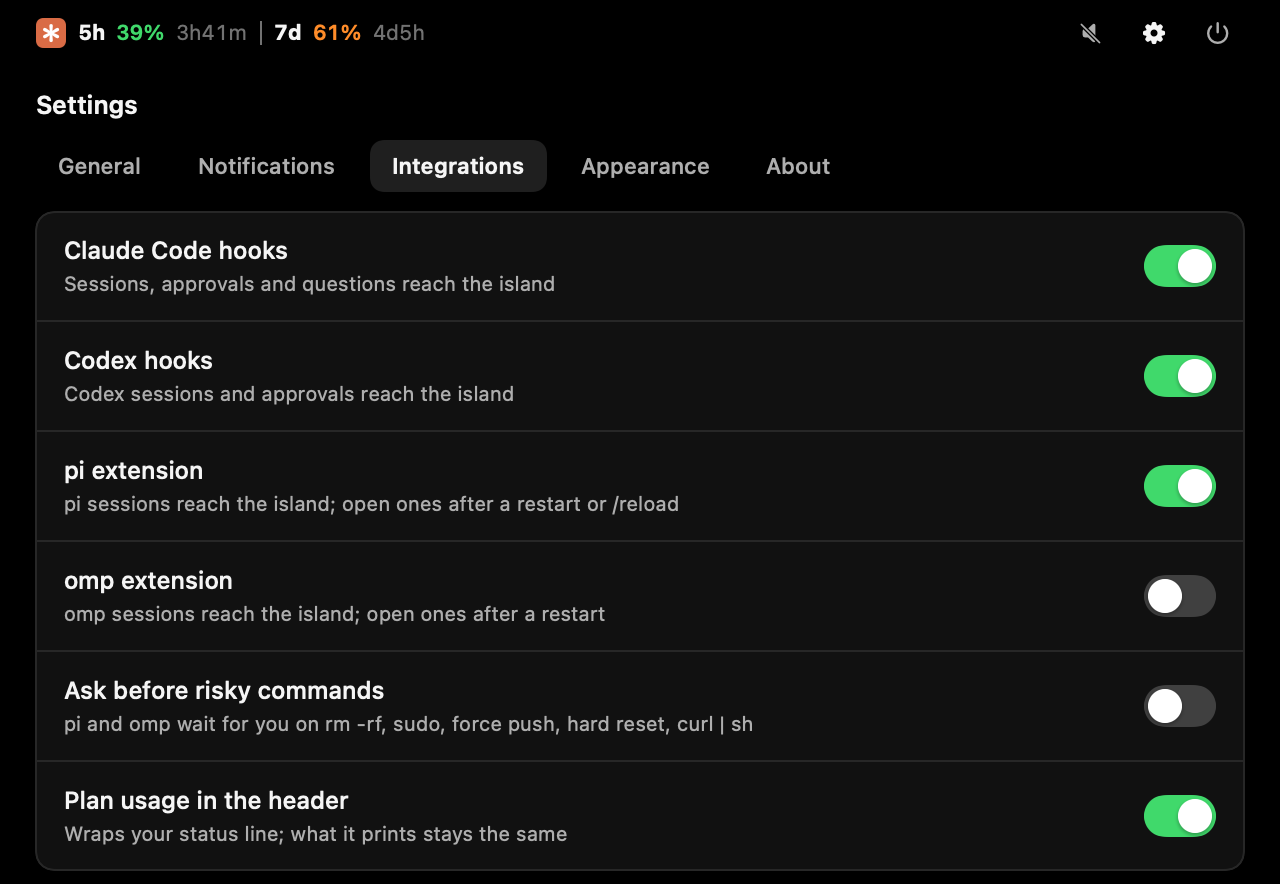
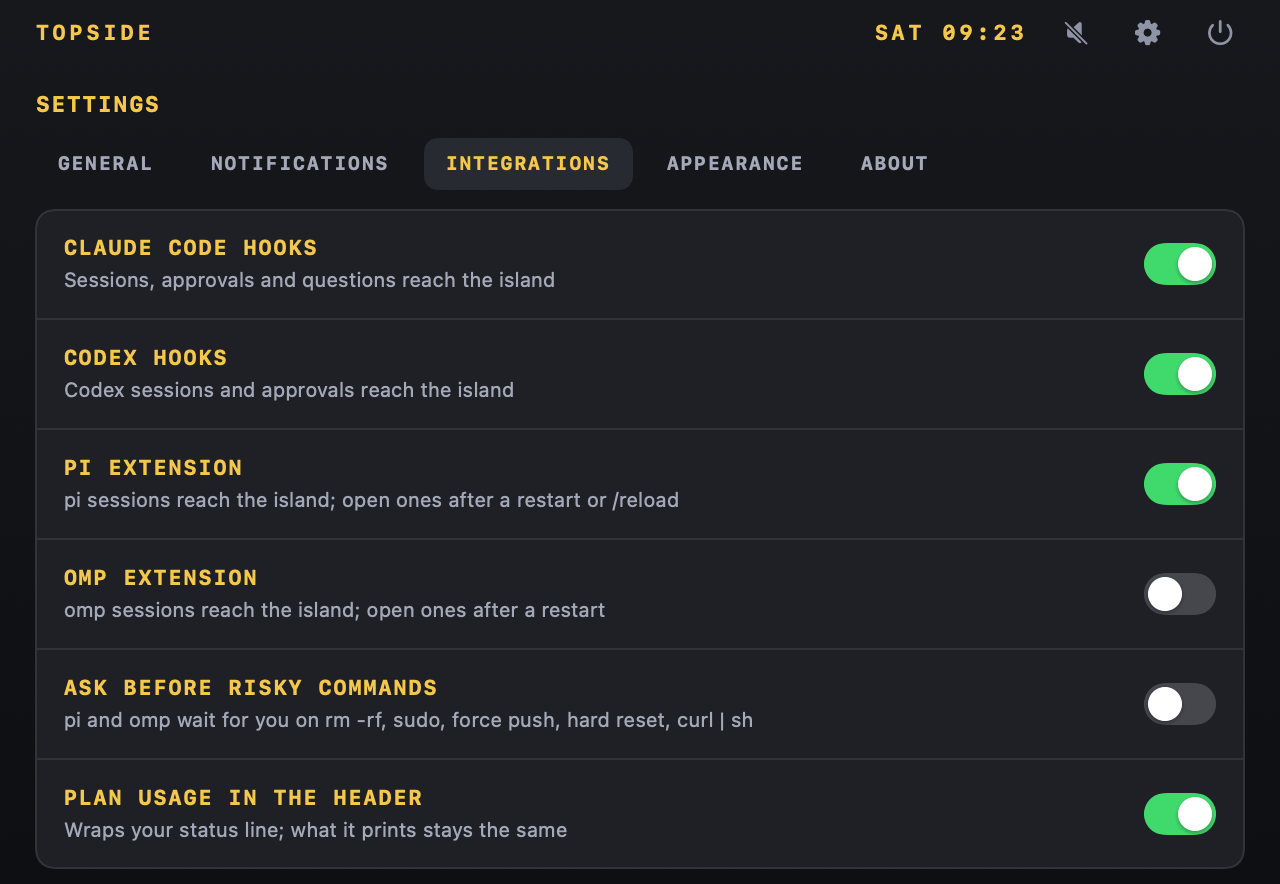
Show the board as Topside's face for 0.3.0
The first look (cards, dots) is retired in 0.3.0, so the letter's middle
now shows the board's pill, its departures and a request landing on it;
Kitchen keeps its own section. The docs' island section describes each
style's pill, list and requests, and the three Settings pictures are
re-rendered on the board's face. Theme and light mode are gone from
Appearance. Version bumped to 0.3.0.

Claude-Session: https://claude.ai/code/session_01AeEtMawiK6Vvbuy3Spha91

diff --git a/docs/index.html b/docs/index.html
@@ -218,12 +218,12 @@ footer { font-family: var(--mono); font-size: 12px; color: var(--muted); border-
 
         <h3>Codex CLI</h3>
         <p>Codex runs a hook only after you trust it. Open Codex, run <code>/hooks</code> and approve Topside's. Topside doesn't write that trust for you, and shouldn't be able to. Until you do, Codex rows say "Not tracked: run /hooks in Codex". You'll be asked again if the app moves to another folder, because the hook's command changes with it.</p>
-        <p>Codex takes allow or deny from a hook and nothing else, so its cards have those two buttons. <code>codex exec</code> and <code>codex review</code> don't show. If <code>CODEX_HOME</code> is set, the hooks go there.</p>
+        <p>Codex takes allow or deny from a hook and nothing else, so its requests have those two answers. <code>codex exec</code> and <code>codex review</code> don't show. If <code>CODEX_HOME</code> is set, the hooks go there.</p>
 
         <h3>pi and omp</h3>
         <p>These two have no hooks; they load TypeScript extensions. Topside adds one file, marked <code>topside-managed</code> on its first line. Switching off deletes it. A <code>topside.ts</code> without the marker is yours and is left alone.</p>
         <p>A session that was open before the switch shows as "Not tracked yet" with what to do: <code>/reload</code> in pi, a restart in omp, which loads extensions only when it starts.</p>
-        <p>pi and omp run tools without asking. "Ask before risky commands" puts a card in front of a short list: <code>rm -rf</code>, <code>sudo</code>, a forced <code>git push</code>, <code>git reset --hard</code> and <code>curl … | sh</code>, including when they hide inside <code>xargs</code> or <code>sh -c</code>. You have 25 seconds; after that the command is blocked. With Topside closed, the command just runs.</p>
+        <p>pi and omp run tools without asking. "Ask before risky commands" puts a request on the island in front of a short list: <code>rm -rf</code>, <code>sudo</code>, a forced <code>git push</code>, <code>git reset --hard</code> and <code>curl … | sh</code>, including when they hide inside <code>xargs</code> or <code>sh -c</code>. You have 25 seconds; after that the command is blocked. With Topside closed, the command just runs.</p>
         <p>They bill by the token, so the header shows what the session under the mouse has cost.</p>
 
         <h3>Plan usage</h3>
@@ -233,33 +233,34 @@ footer { font-family: var(--mono); font-size: 12px; color: var(--muted); border-
       <section id="island">
         <h2>The island</h2>
         <h3>The pill</h3>
-        <p>One dot per session, newest first, up to five. The mascot takes the color of the most urgent one.</p>
+        <p>It wears the <a href="#styles">style</a> you picked. On the board, the left side is the newest session's agent as a flight code (CLD, CDX, PI or OMP) and the right side is a flap per session, newest first, up to five, with the first letter of its status. In the kitchen, the left side is the printer's light with a red count of waiting tickets, and the right side is a tiny rail with a paper stub per session.</p>
         <div class="scroll"><table>
-          <thead><tr><th>Dot</th><th>The session is</th></tr></thead>
+          <thead><tr><th>Board</th><th>Kitchen</th><th>The session is</th></tr></thead>
           <tbody>
-            <tr><td><span class="dot" style="--tone: var(--waiting)"></span>Orange</td><td>Waiting for you: a permission request or a question.</td></tr>
-            <tr><td><span class="dot" style="--tone: var(--working)"></span>Blue</td><td>Working.</td></tr>
-            <tr><td><span class="dot" style="--tone: var(--done)"></span>Green</td><td>Done with its turn.</td></tr>
-            <tr><td><span class="dot" style="--tone: var(--idle)"></span>Grey</td><td>Idle.</td></tr>
+            <tr><td><span class="dot" style="--tone: var(--waiting)"></span>W</td><td>An orange stub, hanging lower; the light blinks amber</td><td>Waiting for you: a permission request or a question.</td></tr>
+            <tr><td><span class="dot" style="--tone: var(--working)"></span>B</td><td>A blue stub</td><td>Working. B for boarding.</td></tr>
+            <tr><td><span class="dot" style="--tone: var(--done)"></span>A</td><td>A green stub</td><td>Done with its turn. A for arrived.</td></tr>
+            <tr><td><span class="dot" style="--tone: var(--idle)"></span>P</td><td>A grey stub</td><td>Idle. P for parked.</td></tr>
           </tbody>
         </table></div>
+        <p>A reminder turns the flight code into a red, blinking DELAYED color, or the printer's light red. Right after you answer, the board's flaps flip to OK and the kitchen stamps a green OK.</p>
 
         <h3>The list</h3>
-        <p>Hover the pill or click it. Each row is headed by the session's name in Claude Code, or its folder, followed by the agent's mark, the terminal's icon and the session's age. Under that: the prompt, the file being edited, the last reply.</p>
-        <p>Point at a row and three buttons appear on its right. "Hide" leaves out every session in that folder. "Hide like this" leaves out every session whose first prompt contains this one's. The third jumps to the terminal. Either one asks first: the row says how many sessions it would hide ("Hide 2 sessions in webapp, and any new one there?") and marks the others it would take, and nothing goes until you click Hide. Keep or esc leaves them. A hidden folder or prompt comes back from Settings, with ✕.</p>
-        <p>Rows past "Sessions shown" fold into "+ N more". A session waiting for an answer always keeps its row.</p>
+        <p>Hover the pill or click it. On the board each session is a departure: its age, its name in Claude Code (or its folder), the agent, a status word and what it's doing now. In the kitchen it's a ticket on the rail. The list opens newest first with nothing picked; click a row or a ticket for its prompt, its last reply and a Jump key.</p>
+        <p>Under a picked session sit two quiet links. "Hide this folder" leaves out every session in that folder. "Hide prompts like it" leaves out every session whose first prompt contains this one's. Either one asks first: it says how many sessions it would hide ("Hide 2 sessions in webapp, and any new one there?") and marks the others it would take, and nothing goes until you press Hide. Keep or esc leaves them. A hidden folder or prompt comes back from Settings, with ✕.</p>
+        <p>On the board, rows past "Sessions shown" fold into "+ N MORE". The kitchen rail always holds five and puts the rest on a spike. A session waiting for an answer always stays in view.</p>
 
-        <h3>Cards</h3>
+        <h3>Requests</h3>
         <div class="scroll"><table class="wide">
-          <thead><tr><th>Card</th><th>Opens when</th><th>Shows</th></tr></thead>
+          <thead><tr><th>What</th><th>Opens when</th><th>Shows</th></tr></thead>
           <tbody>
             <tr><td>Permission</td><td>An agent asks to run a command or touch a file</td><td>The request, a diff for edits, Allow and Deny</td></tr>
             <tr><td>Question</td><td>An agent asks you to choose</td><td>The options, numbered</td></tr>
-            <tr><td>Completion</td><td>A turn ends</td><td>The last reply, for 5 seconds</td></tr>
+            <tr><td>Finished turn</td><td>A turn ends</td><td>The last reply</td></tr>
           </tbody>
         </table></div>
-        <p>Claude Code's permission cards have two more buttons. "Always" sends back the rule Claude Code itself suggests: accept edits for the session, or allow that exact command in <code>.claude/settings.local.json</code>. It's hidden when Claude Code suggests nothing. "Auto mode" switches the session to <code>auto</code>.</p>
-        <p>A card stays until it's answered, on the island or in the terminal. If the session's terminal is already in front, no card opens: you're looking at it.</p>
+        <p>On the board these come down from the notch with keys to press; in the kitchen they print as order tickets you stamp. Claude Code's permission requests have two more answers. "Always" sends back the rule Claude Code itself suggests: accept edits for the session, or allow that exact command in <code>.claude/settings.local.json</code>. It's missing when Claude Code suggests nothing. "Auto mode" switches the session to <code>auto</code>.</p>
+        <p>A request stays until it's answered, on the island or in the terminal. If the session's terminal is already in front when a turn ends, nothing opens: you're looking at it.</p>
 
         <h3>Keys</h3>
         <div class="scroll"><table>
@@ -269,8 +270,8 @@ footer { font-family: var(--mono); font-size: 12px; color: var(--muted); border-
             <tr><td><kbd>^N</kbd></td><td>Deny</td></tr>
             <tr><td><kbd>^A</kbd></td><td>Always allow (Claude Code only)</td></tr>
             <tr><td><kbd>^1</kbd> to <kbd>^9</kbd></td><td>Pick that option of a question</td></tr>
-            <tr><td><kbd>^J</kbd></td><td>Jump to the terminal of the row marked <code>^J ↗</code></td></tr>
-            <tr><td><kbd>esc</kbd></td><td>Close the list or put the card away</td></tr>
+            <tr><td><kbd>^J</kbd></td><td>Jump to the terminal of the session whose Jump key shows <code>⌃J</code></td></tr>
+            <tr><td><kbd>esc</kbd></td><td>Close the list or put the request away</td></tr>
           </tbody>
         </table></div>
         <p>The island takes keys only while the pointer is on it, and hands the keyboard back when the pointer leaves. It never eats what you type in a terminal.</p>
@@ -291,11 +292,10 @@ footer { font-family: var(--mono); font-size: 12px; color: var(--muted); border-
 
       <section id="styles">
         <h2>Styles</h2>
-        <p>Settings → Appearance → Style. Each style is a card there with its own list drawn small, from sample sessions, so you see it before you pick it; a click picks it. The cards are the default; the other two came from the Arch version.</p>
+        <p>Settings → Appearance → Style. There are two, both from the Arch version, and Board is the default. Each one is a card there with its own list drawn small, from sample sessions, so you see it before you pick it; a click picks it. The pill and Settings wear the style too.</p>
         <div class="scroll"><table class="wide">
           <thead><tr><th>Style</th><th>A request</th><th>The list</th></tr></thead>
           <tbody>
-            <tr><td>Classic</td><td>A card with the diff and buttons</td><td>Rows, as above</td></tr>
             <tr><td>Board</td><td>A split-flap board lowers from the notch: the time, the session, a status word (WAITING, QUESTION, SECURITY for pi and omp, DELAYED once reminded) and chunky keys</td><td>Departures: a lamp, the age, the name, the agent, a status word and what it does now. Click a row for its prompt, last reply and Jump</td></tr>
             <tr><td>Kitchen</td><td>An order ticket feeds out of the notch, MAY I EDIT? or RISKY COMMAND on top. Answer with a rubber stamp: it lands, the ticket tears off, then the answer goes out</td><td>A rail under a chalked menu board with the plan limits: five tickets on magnets, waiting ones first and hanging lower, the rest on a spike you click to page through</td></tr>
           </tbody>
@@ -313,21 +313,21 @@ footer { font-family: var(--mono); font-size: 12px; color: var(--muted); border-
             <tr><td>General</td><td>"Open at login". "Sessions shown", 1 to 7, 5 unless you change it.</td></tr>
             <tr><td>Notifications</td><td>"Open cards by themselves". "Remind me about unanswered requests": once, after 1 to 10 minutes. "Sounds", one for a session that needs you and one for a session that finished, and under it "Style sounds" for Board and Kitchen. The folders and prompts you've hidden, with a way back.</td></tr>
             <tr><td>Integrations</td><td>The switches from <a href="#agents">Agents</a>, "Ask before risky commands", and "Use this copy" when a hook points at another copy of the app.</td></tr>
-            <tr><td>Appearance</td><td>Light, dark or following macOS. <a href="#styles">Style</a>: Classic, Board or Kitchen. Nine themes. Text size, 10 to 14 pt. The pill stays black in every theme, because it has to hide the notch.</td></tr>
+            <tr><td>Appearance</td><td><a href="#styles">Style</a>: Board or Kitchen. Text size, 10 to 14 pt, for requests, prompts and replies, and the tickets on the rail; the board's flaps keep their size. No theme or light mode: the board is black and the kitchen's paper is paper.</td></tr>
             <tr><td>About</td><td>The version, which copy is running and where the data folder is. It changes nothing.</td></tr>
           </tbody>
         </table></div>
         <figure>
-          <img src="../img/settings-integrations.png?v=2" width="1280" height="884" loading="lazy" alt="The Integrations tab: switches for Claude Code hooks, Codex hooks, pi extension, omp extension, Ask before risky commands and Plan usage in the header.">
+          <img src="../img/settings-integrations.png?v=3" width="1280" height="884" loading="lazy" alt="The Integrations tab on the board's face: switches for Claude Code hooks, Codex hooks, pi extension, omp extension, Ask before risky commands and Plan usage in the header.">
           <figcaption>Integrations. Each switch says what it will touch before you flip it.</figcaption>
         </figure>
         <figure>
-          <img src="../img/settings-notifications.png?v=2" width="1280" height="1136" loading="lazy" alt="The Notifications tab: Open cards by themselves, Remind me about unanswered requests set to 2 minutes, Sounds with Glass for needs you and Tink for finished, Style sounds, and the hidden folders and prompts.">
+          <img src="../img/settings-notifications.png?v=3" width="1280" height="736" loading="lazy" alt="The Notifications tab on the board's face: Open cards by themselves, Remind me about unanswered requests set to 2 minutes, Sounds with Glass for needs you and Tink for finished, and Style sounds.">
           <figcaption>Notifications. A hidden folder or prompt comes back with its ×.</figcaption>
         </figure>
         <figure>
-          <img src="../img/settings-appearance.png?v=2" width="1280" height="1406" loading="lazy" alt="The Appearance tab in Tokyo Night: Light, Dark or System, three Style cards with Classic, Board and Kitchen drawn small, the theme picker, three sample rows drawn in the theme, and the text size.">
-          <figcaption>Appearance, in Tokyo Night. Each Style card is that style's real list, drawn small; the sample rows redraw as you step through the themes.</figcaption>
+          <img src="../img/settings-appearance.png?v=3" width="1280" height="718" loading="lazy" alt="The Appearance tab on the board's face: two Style cards, Board and Kitchen, each drawn small from sample sessions, and the text size.">
+          <figcaption>Appearance. Each Style card is that style's real list, drawn small. Pick Kitchen and Settings prints out as a ticket instead.</figcaption>
         </figure>
       </section>
 
@@ -345,12 +345,12 @@ footer { font-family: var(--mono); font-size: 12px; color: var(--muted); border-
           <dd>It's a one-shot run, a background session nobody has attached to, or it matches a folder or prompt you hid. Notifications in Settings lists what's hidden.</dd>
           <dt>Settings shows "Use this copy"</dt>
           <dd>An agent's hook runs a different copy of Topside than the one you're looking at, usually an older one in another folder. The button points the hooks at this one. About says which copy is running.</dd>
-          <dt>A turn ended and no card opened</dt>
+          <dt>A turn ended and nothing opened</dt>
           <dd>The session's terminal was in front. Not a bug, though it can feel like one.</dd>
           <dt>The jump reached the app and not the tab</dt>
           <dd>That terminal has no way to pick a tab from outside. See <a href="#island">the table</a>.</dd>
           <dt>A pi or omp command was blocked</dt>
-          <dd>The risk card went 25 seconds without an answer. Run the command again and answer it, or switch the gate off.</dd>
+          <dd>The risky-command request went 25 seconds without an answer. Run the command again and answer it, or switch the gate off.</dd>
         </dl>
 
         <h3>Reporting a bug</h3>
@@ -361,7 +361,7 @@ footer { font-family: var(--mono); font-size: 12px; color: var(--muted); border-
       </section>
 
       <footer>
-        Topside <span data-version="mac">0.2.4</span> · <a href="../">the letter</a> · <a href="https://github.com/ducban/topside/issues">report a bug</a> · <a href="https://github.com/ducban/topside/releases">releases</a><br>
+        Topside <span data-version="mac">0.3.0</span> · <a href="../">the letter</a> · <a href="https://github.com/ducban/topside/issues">report a bug</a> · <a href="https://github.com/ducban/topside/releases">releases</a><br>
         Built on agent-notch (MIT). The agents' logos belong to their owners and only say which agent is running.<br>
         This page counts its readers with Cloudflare Web Analytics, which sets no cookies and doesn't follow you anywhere. The app counts nothing.
       </footer>

diff --git a/index.html b/index.html
@@ -38,7 +38,7 @@
   "image": "https://topside.ducban.com/og.png",
   "applicationCategory": "DeveloperApplication",
   "operatingSystem": "macOS 14 or later, Apple silicon",
-  "softwareVersion": "0.2.4",
+  "softwareVersion": "0.3.0",
   "author": { "@type": "Person", "name": "Nguyen Duc Ban" }
 }
 </script>
@@ -132,10 +132,7 @@ a { color: inherit; text-underline-offset: 3px; }
 /* A render of the island, cut out of its backdrop. */
 figure { margin: 36px 0; clear: right; }
 .shot { overflow: hidden; background: #000; border-radius: 0 0 26px 26px; position: relative; }
-.shot img { position: absolute; top: 0; left: -4.6875%; width: 109.375%; max-width: none; }
-.shot.list { aspect-ratio: 1280 / 655; }
-.shot.permission { aspect-ratio: 1280 / 752; }
-/* Board and Kitchen are wider than the cards, so they're shown whole, on the dimmed screen behind them. */
+/* Board and Kitchen are shown whole, on the dimmed screen behind them. */
 .shot.whole { background: #121419; border-radius: 14px; }
 .shot.whole img, .shot.whole video { position: static; width: 100%; height: auto; display: block; }
 figcaption { font-family: var(--mono); font-size: 12.5px; color: var(--muted); margin-top: 12px; }
@@ -181,20 +178,26 @@ footer { font-family: var(--mono); font-size: 12px; color: var(--muted); border-
   <p>A coding agent is patient in the worst way. It will sit on <code>Allow this command?</code> for as long as it takes, without a sound, in a tab three windows down, while I admire how productive I'm being in another one.</p>
   <p>The agents were never the slow part. I was, and specifically the part of me that had to notice. Checking tabs is polling, and people are bad at polling: we do it constantly and get nothing else done, or we forget and find the question after lunch.</p>
 
-  <aside class="note" style="--tone: var(--working)"><b>Watch</b>One dot per session. Blue works, orange waits on you, green is done. Rows show the prompt, the file being edited and the last reply.</aside>
-  <p>So I gave the agents an interrupt line and put it on the one strip of screen nobody was using. The notch already costs every MacBook a rectangle of pixels. Topside moves in there: a black island with a dot per session. Blue is working, orange wants an answer, green is finished. Hover for the list.</p>
+  <aside class="note" style="--tone: var(--working)"><b>Watch</b>The pill names the newest session's agent and gives each session a letter: B boarding, W waiting on you, A arrived, P parked. Hover for the board.</aside>
+  <p>So I gave the agents an interrupt line and put it on the one strip of screen nobody was using. The notch already costs every MacBook a rectangle of pixels. Topside moves in there dressed as a departure board. The left side shows the newest session's agent as a flight code, CLD for Claude Code or CDX for Codex. The right side has a flap per session: B is boarding, W is waiting on you, A has arrived. Hover and the whole board comes down; click the pill instead and it stays while the screen dims.</p>
 
   <figure>
-    <div class="shot list"><img src="img/list.png" alt="The open island listing four sessions from Claude Code, pi and omp, each with its status and last line."></div>
-    <figcaption>Four sessions, three agents. The header shows what the session under the mouse has cost.</figcaption>
+    <div class="shot whole"><img src="img/pill.png" width="720" height="224" alt="Two pills at the notch. On top, the board's: CLD in orange flaps on the left, and W, B, A, P, B flaps on the right. Below, the kitchen's: an amber light and a red 1 on the left, and five paper stubs on a tiny rail on the right, the orange one hanging lower."></div>
+    <figcaption>The pill on the board, and the same five sessions in the kitchen. Either way, one of them is waiting on you.</figcaption>
   </figure>
 
-  <aside class="note" style="--tone: var(--waiting)"><b>Answer</b>Permission requests open as a card with the diff. <kbd>^Y</kbd> allows, <kbd>^N</kbd> denies. Questions get their options as buttons.</aside>
-  <p>It reads Claude Code, Codex CLI, pi and omp. When one of them wants to run a command or touch a file, the request opens on the island with the diff attached, and <kbd>^Y</kbd> or <kbd>^N</kbd> settles it. The tab stays wherever it was.</p>
+  <figure>
+    <div class="shot whole"><img src="img/board.png" width="1400" height="726" loading="lazy" alt="The Board style: five sessions listed as departures with their age, agent, status word and current activity; the picked one, docs-site, parked, shows its prompt, last reply and a Jump key."></div>
+    <figcaption>Hover and the board comes down. Click a departure for its prompt, its last reply and a way to its terminal.</figcaption>
+  </figure>
+
+  <aside class="note" style="--tone: var(--waiting)"><b>Answer</b>A request drops the board out of the notch with the diff. <kbd>^Y</kbd> allows, <kbd>^N</kbd> denies. Questions get their options as keys.</aside>
+  <p>It reads Claude Code, Codex CLI, pi and omp. When one of them wants to run a command or touch a file, the board drops out of the notch with WAITING clacking into place and the diff under it, and <kbd>^Y</kbd> or <kbd>^N</kbd> settles it. The tab stays wherever it was.</p>
 
   <figure>
-    <div class="shot permission"><img src="img/permission.png" alt="A permission card: Allow Edit on src/config.ts with a diff, and Deny, Always, Allow and Auto mode buttons."></div>
-    <figcaption>A permission request from Claude Code, answered from the notch. The keys that work on a card:</figcaption>
+    <div class="shot whole"><video autoplay muted loop playsinline preload="metadata" width="1200" height="396" poster="img/board-request-poster.jpg" aria-label="A request arriving on the Board style: the board drops from the notch and its flaps riffle until they read 22:10 WEBAPP, WAITING, EDIT THEME.TS, over a one-line diff and Deny, Auto and Allow keys.">
+      <source src="img/board-request.webm" type="video/webm"><source src="img/board-request.mp4" type="video/mp4"></video></div>
+    <figcaption>A request lands. The flaps settle on WAITING, the diff waits under them, and the keys work without the mouse:</figcaption>
     <ul class="keys">
       <li><kbd>^Y</kbd>allow</li>
       <li><kbd>^N</kbd>deny</li>
@@ -208,22 +211,8 @@ footer { font-family: var(--mono); font-size: 12px; color: var(--muted); border-
   <p>For the times you do want the tab, <kbd>^J</kbd> or a click takes you there. Topside finds it the way you'd debug it: up the session's process tree until it hits a terminal, then the pane, in WezTerm, Orca, iTerm2, Terminal.app and tmux. Ghostty gets the window and an apology, since it has no way to pick a tab from outside yet.</p>
 
   <h2>Styles</h2>
-  <aside class="note"><b>Board</b>Settings → Appearance → Style. Sessions as departures, requests as a split-flap board with chunky keys. Click the pill and the list stays while the screen dims.</aside>
-  <p>The cards are the default, and they're quiet about it. If you'd like your agents with a bit more theater, Settings has two more styles, both borrowed from the Arch version. Board turns the island into a split-flap departure board. Sessions are flights, a request drops the board out of the notch with WAITING clacking into place, and you answer on keys big enough to hit without looking.</p>
-
-  <figure>
-    <div class="shot whole"><video autoplay muted loop playsinline preload="metadata" width="1200" height="396" poster="img/board-request-poster.jpg" aria-label="A request arriving on the Board style: the board drops from the notch and its flaps riffle until they read 22:10 WEBAPP, WAITING, EDIT THEME.TS, over a one-line diff and Deny, Auto and Allow keys.">
-      <source src="img/board-request.webm" type="video/webm"><source src="img/board-request.mp4" type="video/mp4"></video></div>
-    <figcaption>A request lands. The flaps settle on WAITING; the diff waits under them.</figcaption>
-  </figure>
-
-  <figure>
-    <div class="shot whole"><img src="img/board.png" width="1400" height="726" loading="lazy" alt="The Board style: five sessions listed as departures with their age, agent, status word and current activity; the picked one, docs-site, parked, shows its prompt, last reply and a Jump key."></div>
-    <figcaption>Board. Click a departure for its prompt, its last reply and a way to its terminal.</figcaption>
-  </figure>
-
-  <aside class="note" style="--tone: var(--waiting)"><b>Kitchen</b>Requests print as order tickets; stamp ALLOW or DENY. The list is a rail: five tickets on magnets, the rest on a spike.</aside>
-  <p>Kitchen commits harder. The notch is a ticket printer, a request feeds out as an order ticket, and you answer it with a rubber stamp. The stamp lands, the ticket tears off, and only then does the answer go out, which is more ceremony than <kbd>^Y</kbd> needs and exactly as much as it deserves. The list is the rail over the pass: five tickets on magnets, the rest on a spike, and your plan limits chalked on the menu board.</p>
+  <aside class="note" style="--tone: var(--waiting)"><b>Kitchen</b>Settings → Appearance → Style. Requests print as order tickets; stamp ALLOW or DENY. The list is a rail: five tickets on magnets, the rest on a spike.</aside>
+  <p>Both styles came from the Arch version. If a departure board feels too calm, switch to Kitchen, which commits harder. The notch is a ticket printer, a request feeds out as an order ticket, and you answer it with a rubber stamp. The stamp lands, the ticket tears off, and only then does the answer go out, which is more ceremony than <kbd>^Y</kbd> needs and exactly as much as it deserves. The list is the rail over the pass: five tickets on magnets, the rest on a spike, and your plan limits chalked on the menu board.</p>
 
   <figure>
     <div class="shot whole"><video autoplay muted loop playsinline preload="metadata" width="1200" height="550" poster="img/kitchen-request-poster.jpg" aria-label="A request arriving on the Kitchen style: an order ticket feeds out of the notch's printer, headed MAY I EDIT?, with the diff and Deny, Auto and Allow stamps.">
@@ -256,11 +245,11 @@ footer { font-family: var(--mono); font-size: 12px; color: var(--muted); border-
   <p class="ps">P.S. If the session's terminal is already in front when a turn ends, Topside says nothing. You were looking at it.</p>
   <aside class="note"><b>Arch Linux</b><code>sudo npm install -g topside-arch</code>. <a href="arch/">The Linux letter</a>.</aside>
   <p>P.P.S. <a href="arch/">Topside is on Arch Linux now</a>, at <span data-version="arch">0.1.2</span>: the same island in your Quickshell bar, on SekaiPop, DankMaterialShell or a pill of its own.</p>
-  <aside class="note" style="--tone: var(--working)"><b>New since</b>Hide asks first. Lists open newest first. Settings draws each style small before you pick it. <a href="https://github.com/ducban/topside/releases">Release notes</a>.</aside>
-  <p>P.P.P.S. Topside has moved on since I wrote this. "Hide" now asks before it hides, and shows every session it would take along, even ones that were folded out of sight. Every list opens newest first with nothing picked. And Settings draws each style small before you choose one, so you can look at the kitchen without moving into it. The <a href="https://github.com/ducban/topside/releases">release notes</a> have the rest, up to 0.2.4.</p>
+  <aside class="note" style="--tone: var(--working)"><b>New since</b>Board is the default and the first look is retired. The pill and Settings wear your style. Hide asks first. <a href="https://github.com/ducban/topside/releases">Release notes</a>.</aside>
+  <p>P.P.P.S. Topside has moved on since I wrote this, and I've rewritten the middle to match. The first look, cards and colored dots, is retired: the board is the default now, and the pill and Settings dress in whichever style you pick, so there's no theme to choose anymore. Before that, "Hide" learned to ask first and every list started opening newest first. The <a href="https://github.com/ducban/topside/releases">release notes</a> have the rest, up to <span data-version="mac">0.3.0</span>.</p>
 
   <footer>
-    Topside <span data-version="mac">0.2.4</span> · <a href="docs/">docs</a> · <a href="arch/">Arch Linux</a> · <a href="https://github.com/ducban/topside/issues">report a bug</a> · <a href="https://github.com/ducban/topside/releases">releases</a><br>
+    Topside <span data-version="mac">0.3.0</span> · <a href="docs/">docs</a> · <a href="arch/">Arch Linux</a> · <a href="https://github.com/ducban/topside/issues">report a bug</a> · <a href="https://github.com/ducban/topside/releases">releases</a><br>
     Built on agent-notch (MIT). The agents' logos belong to their owners and only say which agent is running.<br>
     This page counts its readers with Cloudflare Web Analytics, which sets no cookies and doesn't follow you anywhere. The app counts nothing.
   </footer>
